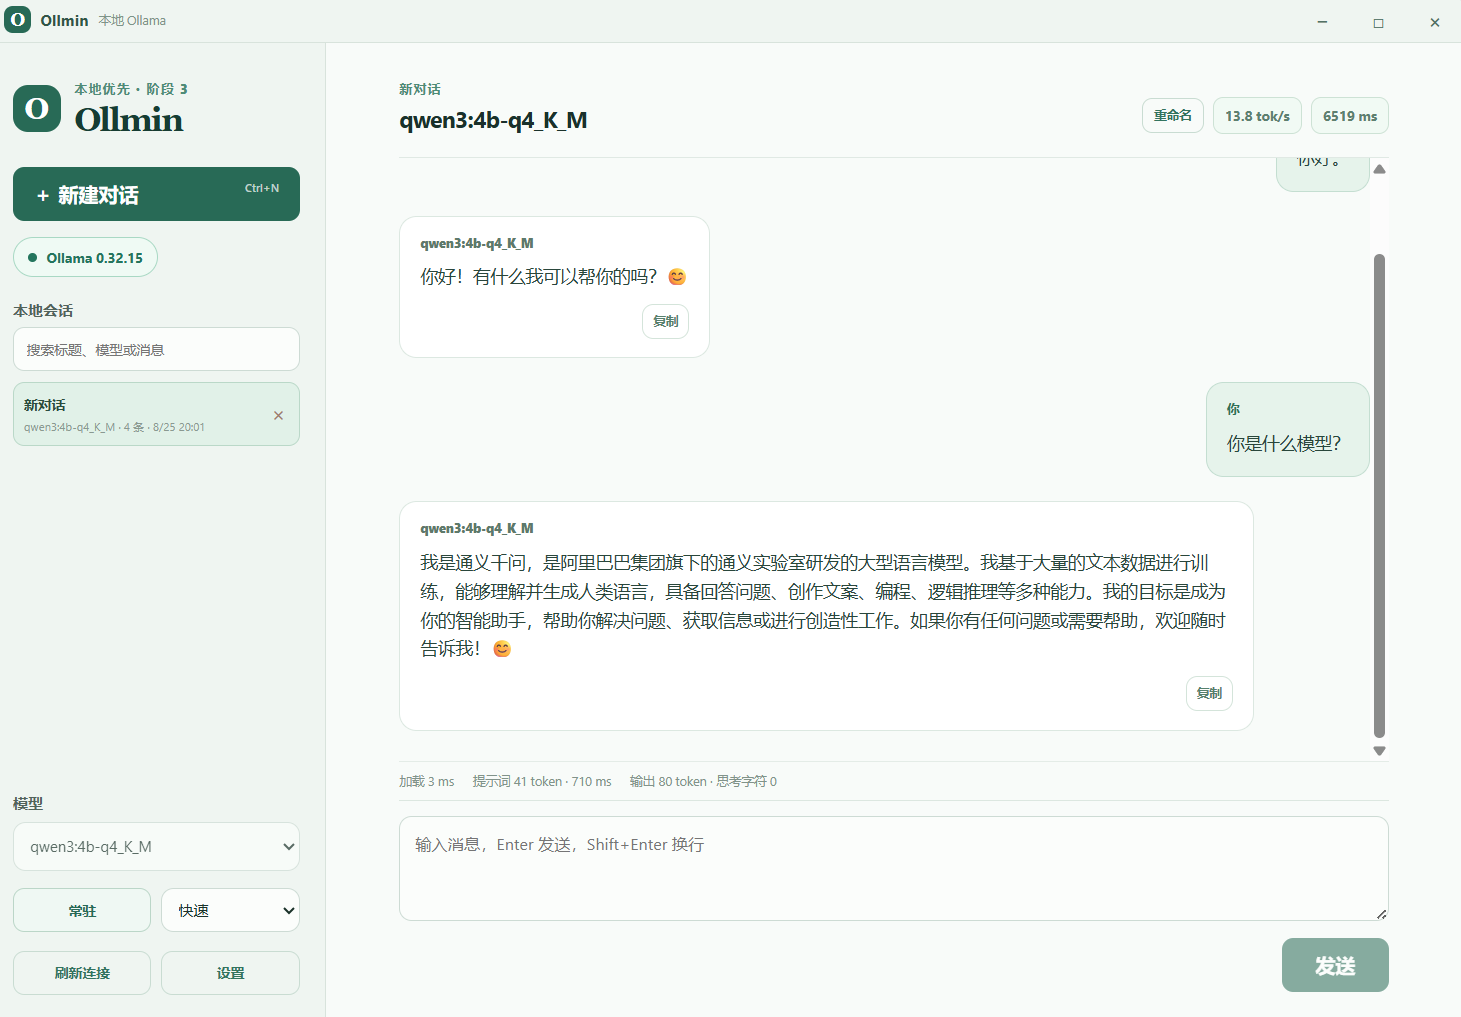
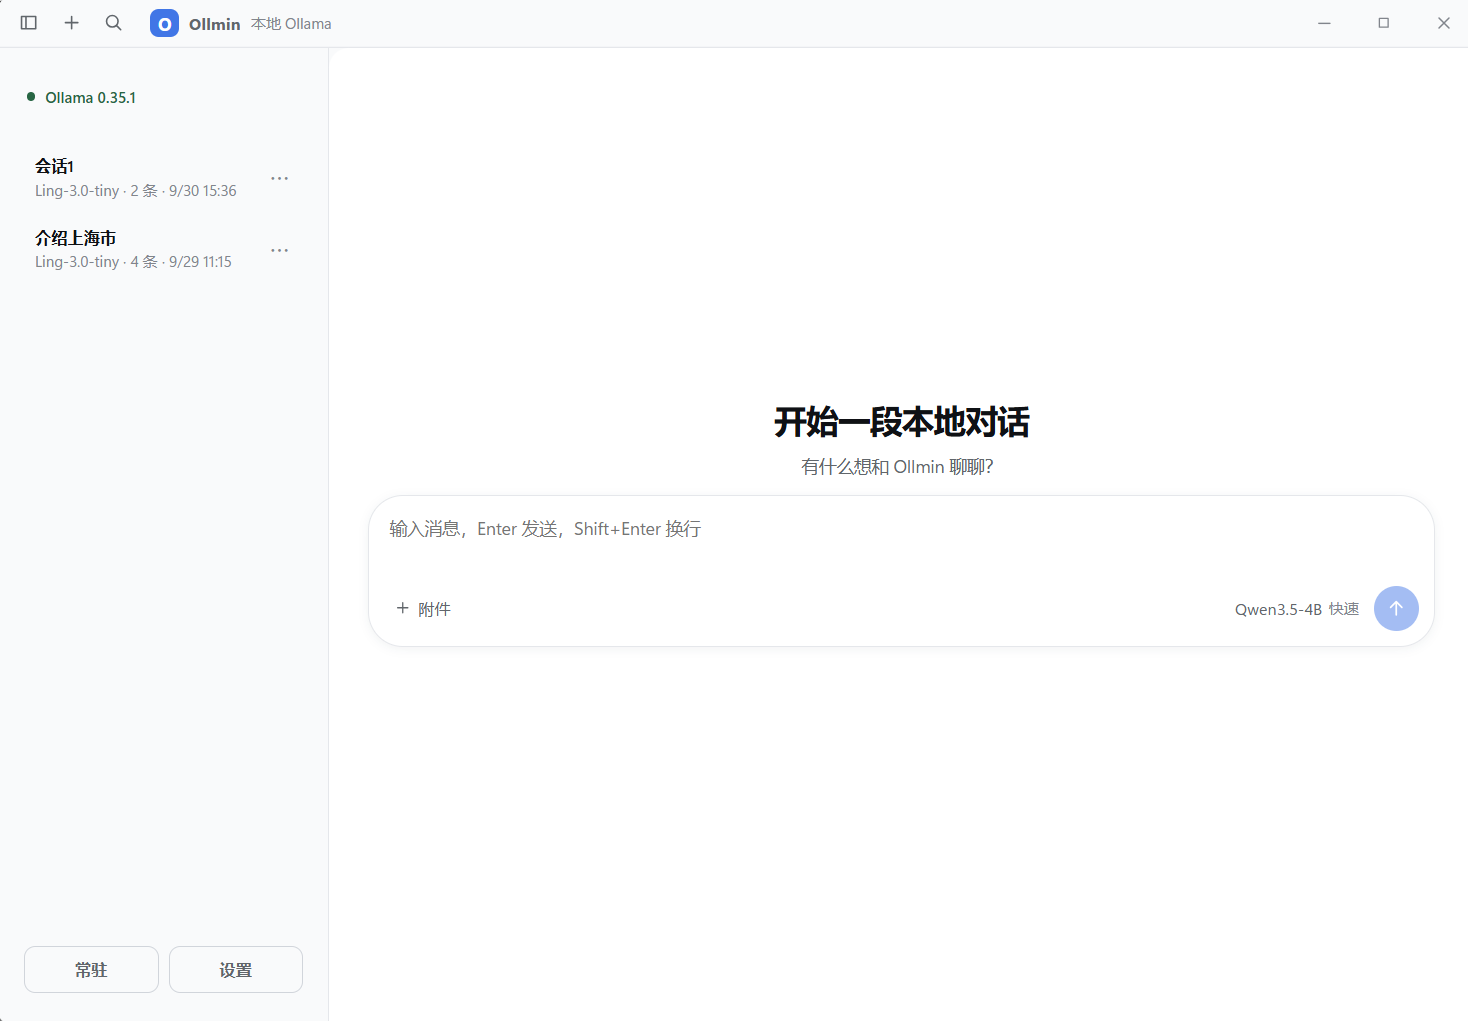
更新中英文 README 的四张新版截图

diff --git a/README.md b/README.md
@@ -15,8 +15,25 @@
 </div>
 
 <p align="center">
-  <img src="assets/ollmin-ui.png" alt="Ollmin desktop chat window with local model controls" width="1000">
+  <img src="assets/ollmin-ui.png" alt="Ollmin desktop home screen with local model controls" width="1000">
 </p>
+
+<details>
+<summary>More screenshots: performance modes, local file questions, and settings</summary>
+
+**Performance modes**
+
+![Fast, Balanced, and Reasoning modes](assets/ollmin-modes.png)
+
+**Local file questions**
+
+![Summarizing a local DOCX file](assets/ollmin-document-chat.png)
+
+**Settings**
+
+![Theme and chat-font settings](assets/ollmin-settings.png)
+
+</details>
 
 ## Why Ollmin?
 

diff --git a/README.zh-CN.md b/README.zh-CN.md
@@ -15,8 +15,25 @@
 </div>
 
 <p align="center">
-  <img src="assets/ollmin-ui.png" alt="Ollmin 本地聊天窗口与模型控制" width="1000">
+  <img src="assets/ollmin-ui.png" alt="Ollmin 主界面与本地模型控制" width="1000">
 </p>
+
+<details>
+<summary>更多截图：性能模式、本地文件问答与设置</summary>
+
+**性能模式**
+
+![快速、平衡与推理模式](assets/ollmin-modes.png)
+
+**本地文件问答**
+
+![概括本地 DOCX 文件](assets/ollmin-document-chat.png)
+
+**设置**
+
+![主题与会话字号设置](assets/ollmin-settings.png)
+
+</details>
 
 ## 为什么选择 Ollmin？
 
